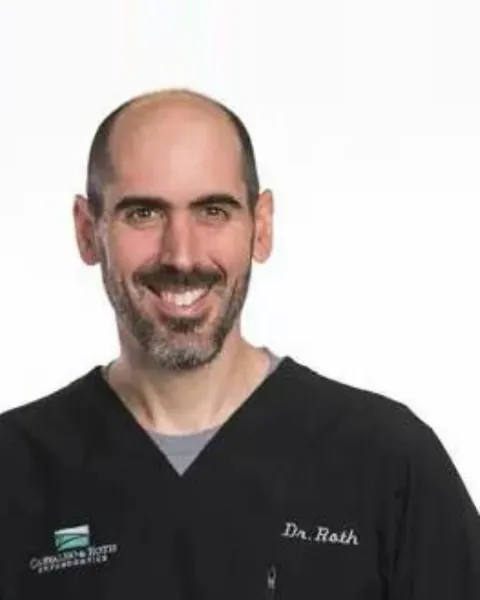
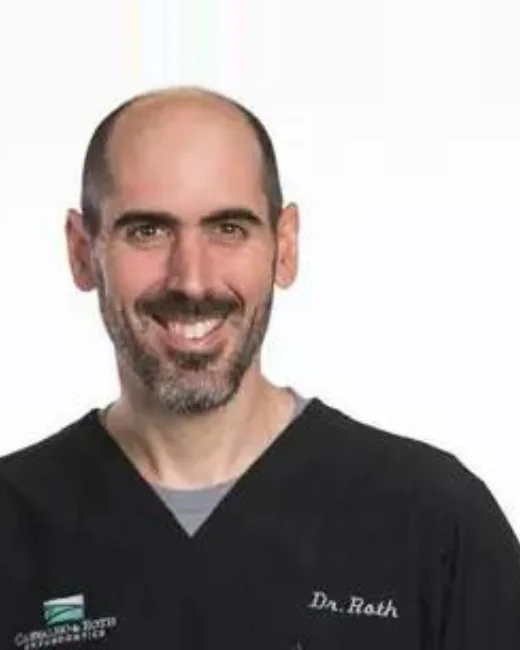
Rebuild doctor portraits at native resolution and use photo-beside-text cards
Claude-Session: https://claude.ai/code/session_01M9aRnyNRgx1xA6h1suJLD1

diff --git a/assets/css/styles.css b/assets/css/styles.css
@@ -364,13 +364,13 @@ h3 { font-size: 1.2rem; }
 @media (min-width: 560px) { .cta-band .cta-row .btn { width: auto; } }
 
 /* ---------- Doctors ---------- */
-.doctors { display: grid; gap: 22px; grid-template-columns: 1fr; }
+.doctors { display: grid; gap: 22px; grid-template-columns: 1fr; max-width: 980px; margin: 0 auto; }
 .doctor {
   border-radius: var(--radius-lg); overflow: hidden; background: var(--surface);
   border: 1px solid var(--line); box-shadow: 0 14px 40px rgba(23, 92, 80, 0.08);
   display: grid; grid-template-columns: 1fr;
 }
-.doctor__photo img { width: 100%; aspect-ratio: 4 / 5; object-fit: cover; }
+.doctor__photo img { width: 100%; height: auto; aspect-ratio: 4 / 5; object-fit: cover; object-position: center top; }
 .doctor__body { padding: 24px; }
 .doctor__body h3 { font-size: 1.45rem; margin-bottom: 4px; }
 .doctor__cred {
@@ -380,13 +380,12 @@ h3 { font-size: 1.2rem; }
 .doctor__body p { color: var(--muted); font-size: 0.97rem; }
 .doctor__body p:last-child { margin-bottom: 0; }
 @media (min-width: 560px) {
-  .doctor { grid-template-columns: 200px 1fr; }
+  .doctor { grid-template-columns: 220px 1fr; }
   .doctor__photo img { height: 100%; aspect-ratio: auto; }
 }
 @media (min-width: 900px) {
-  .doctors { grid-template-columns: 1fr 1fr; }
-  .doctor { grid-template-columns: 1fr; }
-  .doctor__photo img { aspect-ratio: 1 / 1; object-position: center top; height: auto; }
+  .doctor { grid-template-columns: 260px 1fr; }
+  .doctor__body { padding: 30px 32px; }
 }
 
 /* ---------- Reviews ---------- */

diff --git a/index.html b/index.html
@@ -286,7 +286,7 @@
             <div class="doctor__photo">
               <picture>
                 <source type="image/webp" srcset="assets/images/dr-roth.webp">
-                <img src="assets/images/dr-roth.jpg" width="480" height="600" alt="Dr. Menachem D. Roth" loading="lazy" decoding="async">
+                <img src="assets/images/dr-roth.jpg" width="520" height="650" alt="Dr. Menachem D. Roth" loading="lazy" decoding="async">
               </picture>
             </div>
             <div class="doctor__body">
